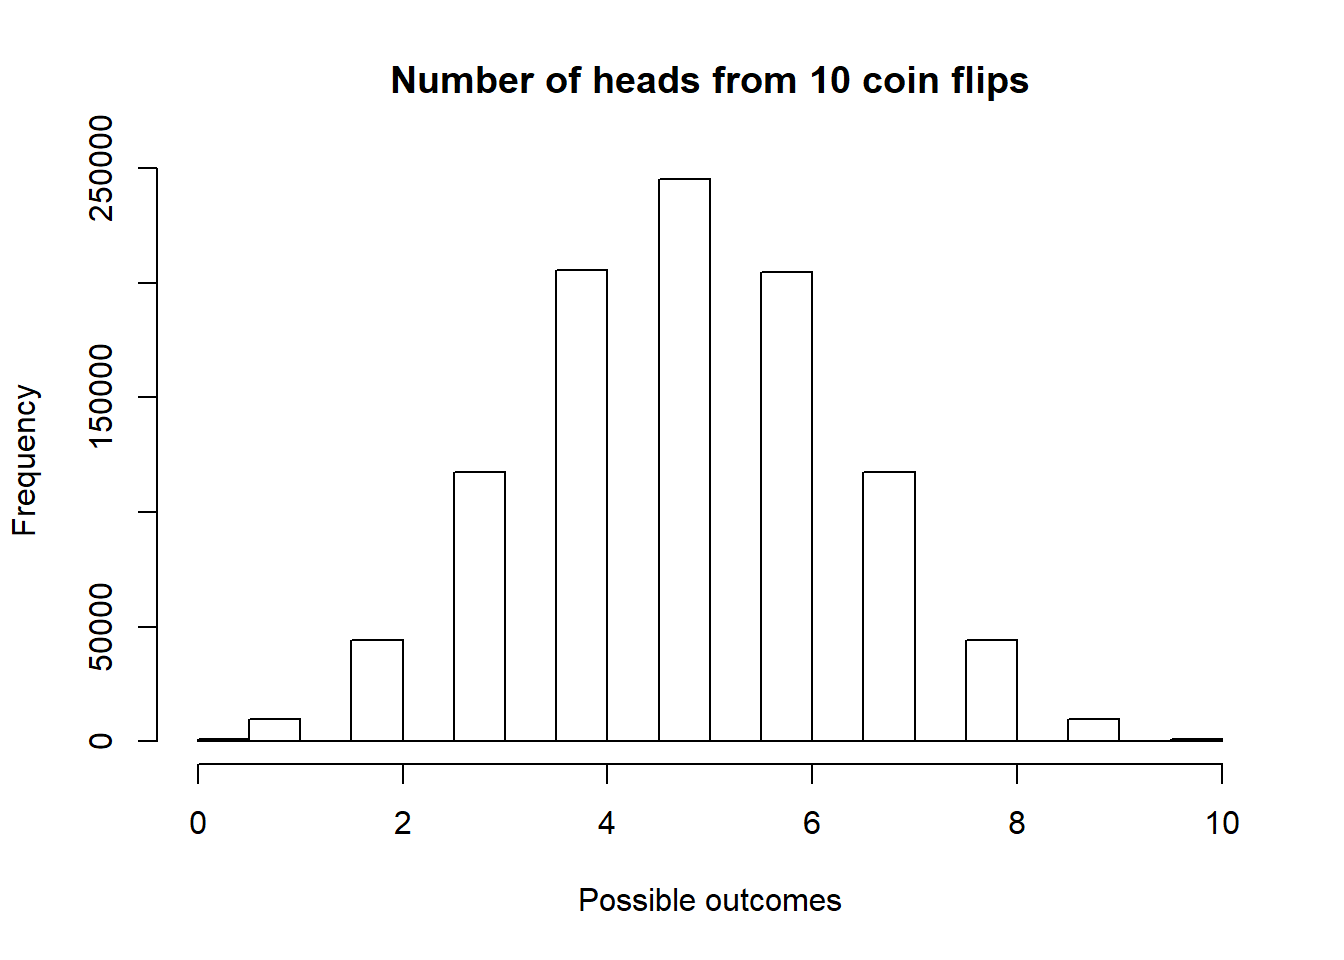
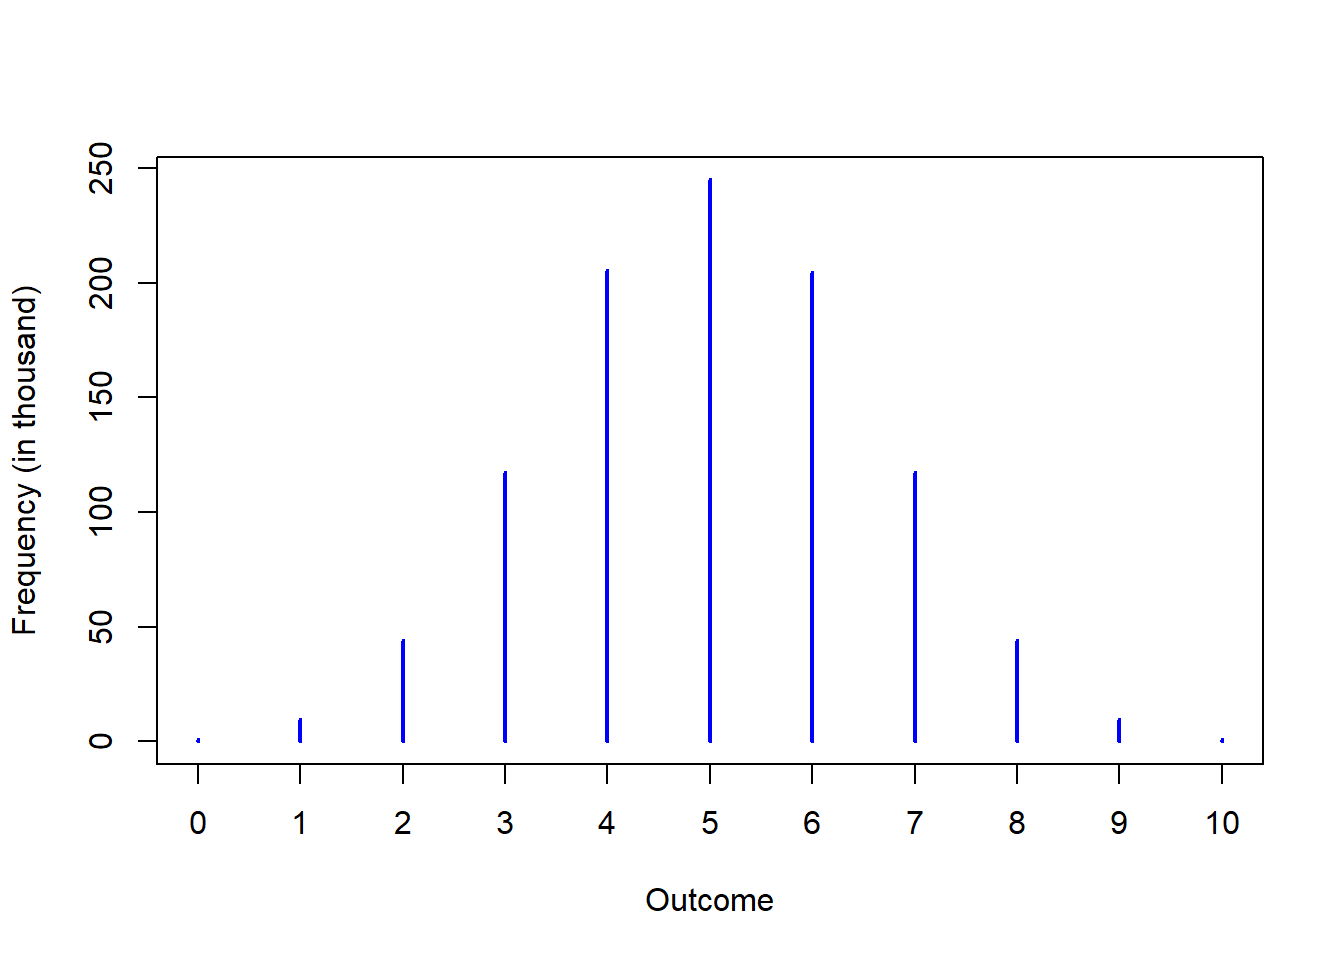
updated post rendered to public directory

diff --git a/public/2019/08/05/simulating-coin-flip/index.html b/public/2019/08/05/simulating-coin-flip/index.html
@@ -108,7 +108,7 @@ toss_n_times()</code></pre>
 <div id="replicating" class="section level2">
 <h2>Replicating</h2>
 <p>In one instance, we had <code>4</code> heads and another <code>6</code> heads. We know that the set of possible outcomes of 10 coin flips resulting in heads is <span class="math inline">\(\{0, 1, 2, 3, 4, 5, 6, 7, 8, 9, 10\}\)</span>. We need to know the probability of each of these possible outcomes. We can analytically compute the probabilities, however, we want to use simulation. In this case, we will use frequentist interpretation of probability where probability is defined as the limiting proportion of events in a sequence of independent identical experiments.</p>
-<p>To get closer to the true probability of the outcomes of tossing a fair coin <code>10</code> times (and counting the number of heads), we need to repeat this experiment many times. Since the claim is that there will be <code>5</code> heads and <code>5</code> tails, we will find the proportion of times we get exactly <code>5</code> heads. As a starter, we will run our <code>toss_n_times</code> function <code>100</code> times. Once again, let’s wrap our loop in a function. We will use the idea that <code>mean</code> of a vector with boolean (<code>TRUE</code> or <code>FALSE</code>) elements is the proportion of true(s) in the vector. Note that in R <code>mean</code> coerces <code>TRUE</code> to <code>1</code> and <code>FALSE</code> to <code>0</code>.</p>
+<p>To get closer to the true probability of the outcomes of tossing a fair coin <code>10</code> times (and counting the number of heads), we need to repeat this experiment many times. Since the claim is that there will be <code>5</code> heads and <code>5</code> tails, we will find the proportion of times we get exactly <code>5</code> heads. As a starter, we will run our <code>toss_n_times</code> function <code>100</code> times. Once again, let’s wrap our loop in a function. We will use the idea that the <code>mean</code> of a vector with boolean (<code>TRUE</code> or <code>FALSE</code>) elements is the proportion of true(s) in the vector. Note that in R, <code>mean()</code> function coerces <code>TRUE</code> to <code>1</code> and <code>FALSE</code> to <code>0</code>.</p>
 <pre class="r"><code>repeat_m_times &lt;- function(f, m = 100, heads = 5) {
   outcome &lt;- numeric(length = m)
   for (i in 1:m) {
@@ -125,7 +125,7 @@ repeat_m_times(toss_n_times)$proportion</code></pre>
 repeat_m_times(toss_n_times)$proportion</code></pre>
 <pre><code>## [1] 0.24</code></pre>
 <pre class="r"><code># 0.24 (24% of the time we get heads)</code></pre>
-<p>There is some volatility with the percentage of times we get <code>5</code> heads out of <code>10</code> tosses of a coin. Suppose we have repeated our experiment only <code>m = 5</code> times, we would have run into the possibility of getting our proportion to be <code>0%</code> sometimes and over <code>50%</code> some other times. One common mistake people make when using simulation is the small number of replications of the experiment they make. Independent and identical repeatition of the experiment would have to be performed enough number of times to realize the true probabilities. Let’s repeat the experiment <code>1</code> million times.</p>
+<p>There is volatility with the percentage of times we get <code>5</code> heads out of <code>10</code> tosses of a coin. Suppose we have repeated our experiment only <code>m = 5</code> times, we would have run into the possibility of getting our proportion to be <code>0%</code> sometimes and over <code>50%</code> some other times. One common mistake people make when using simulation is the small number of replications of the experiment they make. Independent and identical repeatition of the experiment would have to be performed enough number of times to realize the true probabilities. Let’s repeat the experiment <code>1</code> million times.</p>
 <pre class="r"><code>set.seed(1)
 repeat_m_times(toss_n_times, m = 1e6)$proportion</code></pre>
 <pre><code>## [1] 0.246705</code></pre>
@@ -134,27 +134,31 @@ repeat_m_times(toss_n_times, m = 1e6)$proportion</code></pre>
 repeat_m_times(toss_n_times, m = 1e6)$proportion</code></pre>
 <pre><code>## [1] 0.246152</code></pre>
 <pre class="r"><code># 0.246152</code></pre>
-<p>Let’s visualize the distribution of our outcomes using a histogram.</p>
-<pre class="r"><code>result &lt;- repeat_m_times(toss_n_times, m = 1e6)
-hist(result$outcomes, 
-     main = &quot;Number of heads from 10 coin flips&quot;, 
-     xlab = &quot;Possible outcomes&quot;)</code></pre>
+<p>Let’s visualize the frequency distribution of our outcomes.</p>
+<pre class="r"><code>result &lt;- repeat_m_times(toss_n_times, m = 1e6)$outcomes
+result &lt;- table(result)
+
+plot(result / 1000, 
+     col = &quot;blue&quot;,
+     xlab = &quot;Outcome&quot;, 
+     ylab = &quot;Frequency (in thousand)&quot;)</code></pre>
 <p><img src="/post/2019-08-05-simulating-coin-flip_files/figure-html/unnamed-chunk-10-1.png" width="672" /></p>
 </div>
 <div id="conclusion" class="section level2">
 <h2>Conclusion</h2>
-<p>We can say that we have about <code>24.6%</code> chance of getting exactly <code>5</code> heads out of throwing a fair coin <code>10</code> times. Unless you have unused money to spend and you are not risk averse, the bet is very risky to be engaged in. Your chance of losing is more than winning.</p>
+<p>We can say that we have about <code>24.6%</code> chance of getting exactly <code>5</code> heads out of throwing a fair coin <code>10</code> times. Unless you have unused money to spend and you are not risk averse, the bet is very risky to entertain. Your chance of losing is more than winning.</p>
 </div>
 <div id="miscellaneous" class="section level2">
 <h2>Miscellaneous</h2>
-<p><strong>R</strong> often provides ways of escape when using <code>for</code> loops. The loop could have been replaced with the <code>replicate()</code> function from the base package. We can achieve the same result with <code>100</code> repeatitions using <code>replicate(100, toss_n_times())</code>. The <code>sapply</code> function from the apply family can also be useful in this case <code>sapply(rep(10, 100), toss_n_times)</code>. You guessed right if you thought of <code>map_dbl</code> from the purrr package; which we can use in this way: <code>map_dbl(1:100, ~toss_n_times(10))</code>.</p>
-<p>In functional programming terms, the purrr package offers us more flexibility. The strength of R is in it numerous packages. Thanks to Hadley Wickham for the purrr package. Our <code>toss_n_times()</code> function could have be written with purrr flavor.</p>
+<p><strong>R</strong> often provides ways of escape when using <code>for</code> loop. The loop above could have been replaced with the <code>replicate()</code> function from the base package. We can achieve the same result with <code>100</code> repeatitions using <code>replicate(100, toss_n_times())</code>. The <code>sapply</code> function from the apply family can also be useful in this case <code>sapply(rep(10, 100), toss_n_times)</code>. You guessed right if you thought of <code>map_dbl</code> from the purrr package; which we can use in this way: <code>map_dbl(1:100, ~toss_n_times(10))</code>.</p>
+<p>In functional programming terms, the purrr package offers us more flexibility. The strength of R is in it numerous packages. Thanks to Hadley Wickham for the purrr package. Our <code>toss_n_times()</code> function could have been written with purrr flavor.</p>
 <pre class="r"><code>toss_n_times &lt;- compose(sum, 
                         partial(sample, x = c(0, 1), replace = TRUE))
 result &lt;- map_dbl(1:1000, ~toss_n_times(10)) 
 mean(result == 5)</code></pre>
 <pre><code>## [1] 0.215</code></pre>
-<p>Which of the implementation is fast? Do microbenchmarking to find out. We could also consider parallel programming here since our simulation problem can be classified as embarassingly parallel.</p>
+<p>Which of the implementation is fast? Do microbenchmarking to find out. Parallel programming can be considered here because our simulation problem can be classified as embarassingly parallel.</p>
+<p>Also, see how the same problem can be <a href="/2019/08/12/simulating-coin-flips-from-a-known-distribution/">simulated assuming a known probability distribution</a>.</p>
 </div>
 
     </div>
